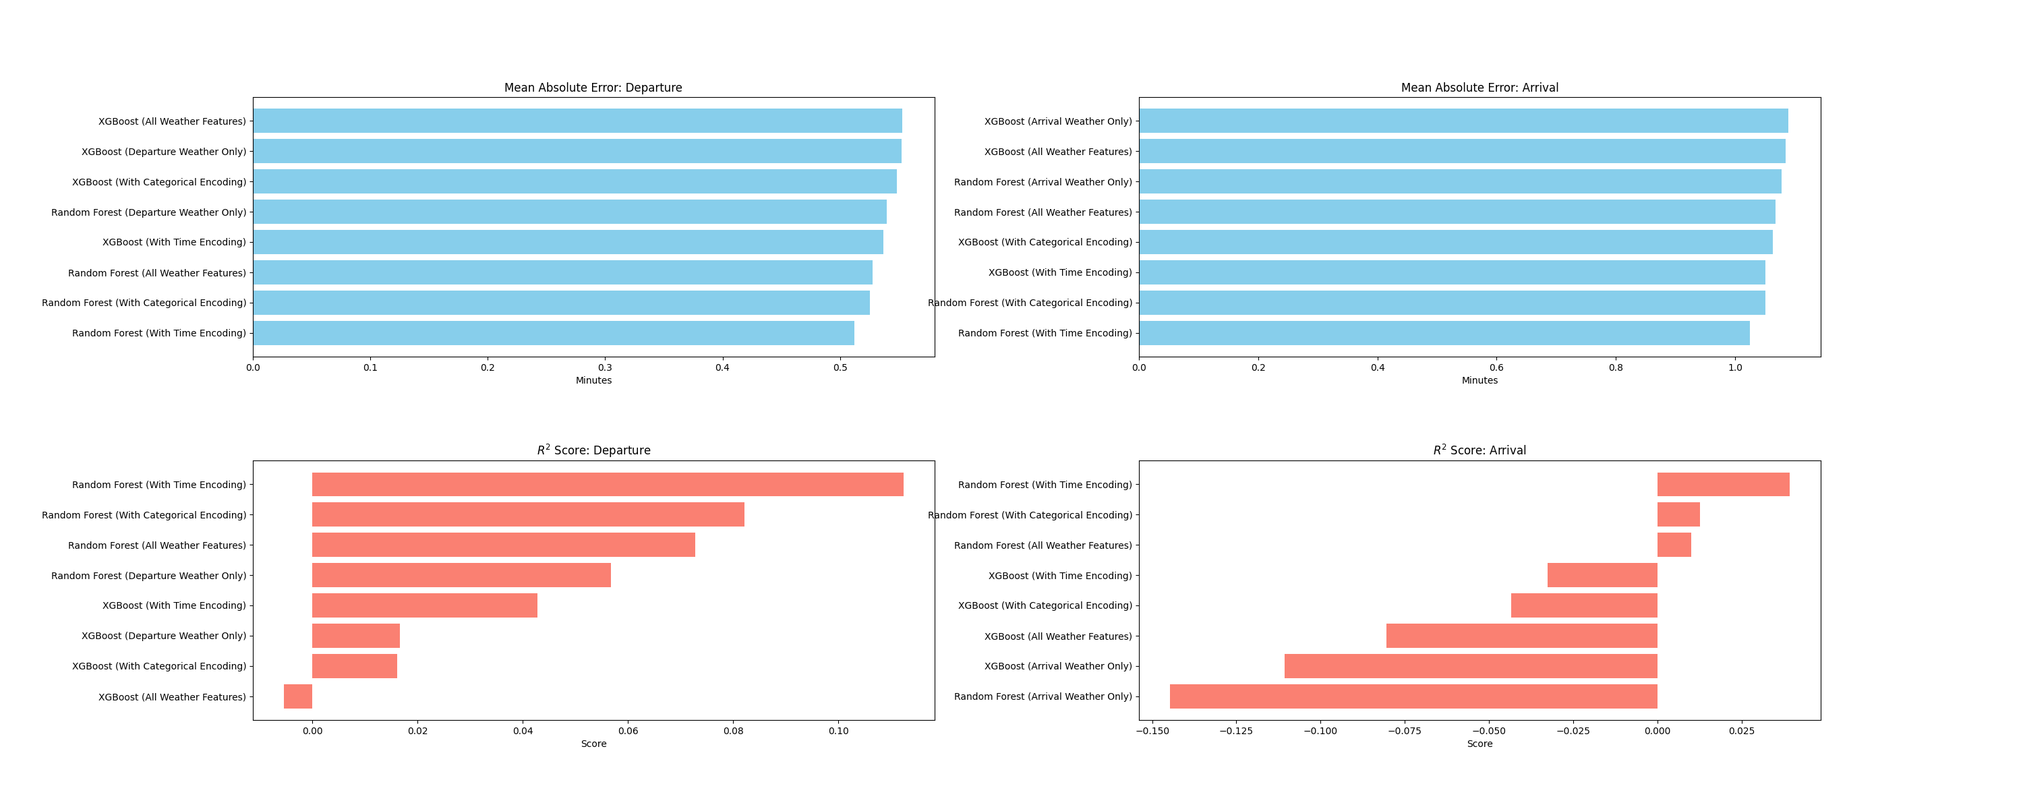
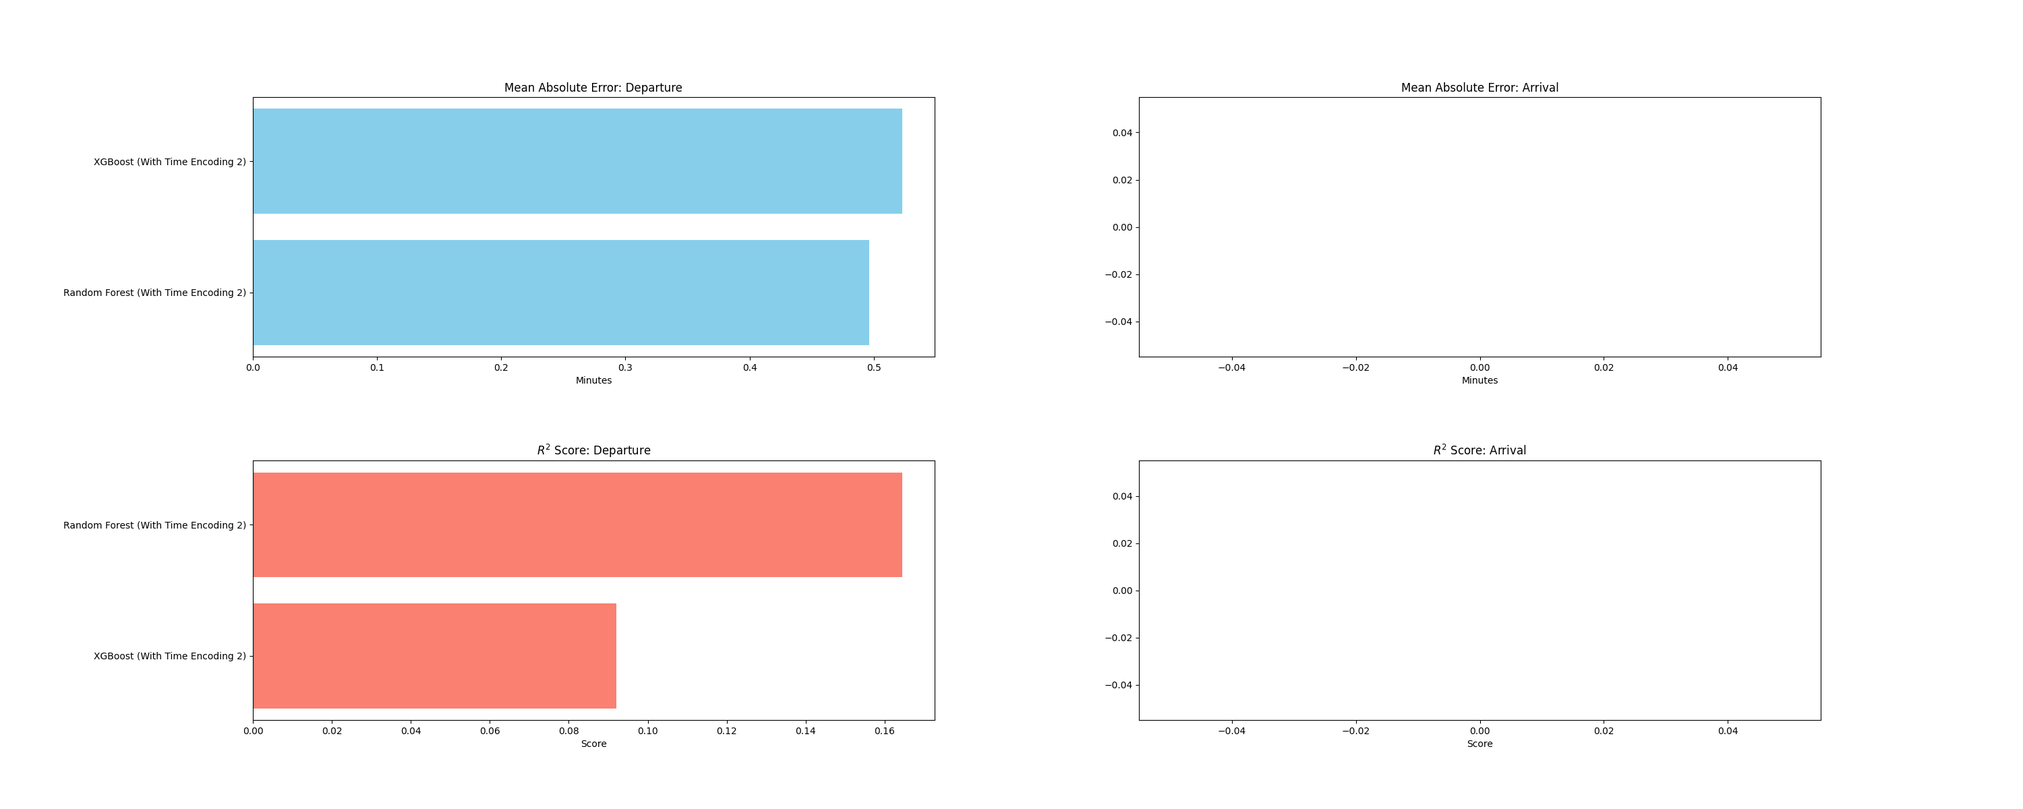
R squared 0.1644, departure delay

diff --git a/src/subset_origins.py b/src/subset_origins.py
@@ -18,8 +18,8 @@ load_dotenv()
 API_KEY = os.getenv("EDGE_API_KEY")
 
 # dates and destination
-START_DATE = "2025-01-06"
-END_DATE = "2026-01-01"
+START_DATE = "2025-12-08"
+END_DATE = "2026-01-02"
 DESTINATION = "CPH"
 
 # origins
@@ -36,13 +36,13 @@ ROWS_TO_KEEP = [
 
 RESULTS = []
 
-def call_edge(date_from: str, date_to: str = None):
+def call_edge(date_from: str, date_to: str = None, airport: str = "CPH", kind: str = "arrival"):
 
     url = "https://aviation-edge.com/v2/public/flightsHistory"
     params = {
         "key": API_KEY,
-        "code": "CPH",
-        "type": "arrival",
+        "code": airport,
+        "type": kind,
         "date_from": date_from,
         "date_to": date_to,
     }
@@ -64,7 +64,7 @@ def call_edge(date_from: str, date_to: str = None):
 
         print(f"An error occurred: {e}") 
 
-def get_all_flights():
+def get_all_flights(airport: str = "CPH", kind: str = "arrival"):
 
     start_dt = datetime.strptime(START_DATE, "%Y-%m-%d")
     end_dt = datetime.strptime(END_DATE, "%Y-%m-%d")
@@ -84,7 +84,7 @@ def get_all_flights():
         from_str = current_start.strftime("%Y-%m-%d")
         to_str = current_end.strftime("%Y-%m-%d")
         
-        chunk_data = call_edge(date_from=from_str, date_to=to_str)
+        chunk_data = call_edge(date_from=from_str, date_to=to_str, airport=airport, kind=kind)
         
         if chunk_data and isinstance(chunk_data, list):
             all_flight_records.extend(chunk_data)
@@ -96,7 +96,68 @@ def get_all_flights():
 
     pbar.close()
 
-    print(all_flight_records[:10])
+    if not all_flight_records:
+        print("No data was retrieved.")
+        return pd.DataFrame()
+
+    df = create_dataframe_flights(all_flight_records)
+    df = df.drop_duplicates(subset=['flight_iata', 'dep_time_sched'])
+
+    return df
+
+def create_dataframe_flights(flights_json: dict):
+
+    data = []
+    for f in flights_json:
+
+        dep = f.get('departure', {})
+        arr = f.get('arrival', {})
+        airline = f.get('airline', {})
+        flight = f.get('flight', {})
+
+        data.append({
+            'flight_iata': flight.get('iataNumber'),
+            'airline': airline.get('name'),
+            'dep_airport': dep.get('iataCode'),
+            'dep_time_sched': dep.get('scheduledTime'),
+            'dep_time_actual': dep.get('actualTime'),
+            'dep_delay': dep.get('delay') or 0,
+            'arr_airport': arr.get('iataCode'),
+            'arr_time_sched': arr.get('scheduledTime'),
+            'arr_time_actual': arr.get('actualTime'),
+            'arr_delay': arr.get('delay') or 0
+        })
+    
+    df = pd.DataFrame(data)
+
+    time_cols = [
+        'dep_time_sched', 'dep_time_actual', 
+        'arr_time_sched', 'arr_time_actual'
+    ]
+    
+    for col in time_cols:
+        df[col] = pd.to_datetime(df[col], errors='coerce')
+
+    return df
+
+def upload_hopsworks(flights_df: pd.DataFrame, airport: str = "CPH", kind: str = "arrival"):
+
+    project = hopsworks.login(
+        engine="python",
+        project=os.getenv("HOPSWORKS_PROJECT"),
+        api_key_value=os.getenv("HOPSWORKS_API_KEY"),
+    )
+    fs = project.get_feature_store()
+
+    flights_fg = fs.get_or_create_feature_group(
+        name=f"flights_{airport}_{kind}_fg",
+        version=1,
+        description="Flight data with weather features",
+        primary_key=["flight_iata", "dep_time_sched"],
+        online_enabled=True,
+    )
+
+    flights_fg.insert(flights_df, write_options={"wait_for_job": False})
 
 def get_flights_hopsworks():
 
@@ -161,20 +222,20 @@ def merge_flights_weather(flights_df, weather_df):
     departure_weather = weather_df[weather_df['airport_iata'].isin(ROWS_TO_KEEP)].copy()
     arrival_weather = weather_df[weather_df['airport_iata'] == 'cph'].copy()
 
-    flights_df.loc[:, 'dep_time_hour'] = flights_df['dep_time_sched'].dt.floor('H')
+    flights_df.loc[:, 'weather_timestamp_deo'] = flights_df['dep_time_sched'].dt.floor('H')
     flights_df.loc[:, 'arr_time_hour'] = flights_df['arr_time_sched'].dt.floor('H')
 
     departure_weather = departure_weather.rename(columns={'airport_iata': 'dep_airport'})
     arrival_weather = arrival_weather.rename(columns={'airport_iata': 'arr_airport'})
 
-    flights_df.loc[:, 'dep_time_hour'] = pd.to_datetime(flights_df['dep_time_hour'], utc=True)
+    flights_df.loc[:, 'weather_timestamp_deo'] = pd.to_datetime(flights_df['weather_timestamp_deo'], utc=True)
     departure_weather.loc[:, 'weather_timestamp'] = pd.to_datetime(departure_weather['weather_timestamp'], utc=True)
     arrival_weather.loc[:, 'weather_timestamp'] = pd.to_datetime(arrival_weather['weather_timestamp'], utc=True)
 
     merged_df = pd.merge(
         flights_df,
         departure_weather,
-        left_on=['dep_airport', 'dep_time_hour'],
+        left_on=['dep_airport', 'weather_timestamp_deo'],
         right_on=['dep_airport', 'weather_timestamp'],
         how='left'
     )
@@ -247,13 +308,13 @@ def train_and_eval_models(split_strategy: str = "random"):
 
     # merged_df = df_dep_only
 
-    extreme_mask = (
-        (merged_df['wind_gusts_10m_dep'] > 15) | 
-        (merged_df['precipitation_dep'] > 2.5) |
-        (merged_df['wind_speed_10m_dep'] > 10)
-        # (merged_df['wind_gusts_10m_arr'] > 15) | 
-        # (merged_df['precipitation_arr'] > 2.5)
-    )
+    # extreme_mask = (
+    #     (merged_df['wind_gusts_10m_dep'] > 15) | 
+    #     (merged_df['precipitation_dep'] > 2.5) |
+    #     (merged_df['wind_speed_10m_dep'] > 10)
+    #     # (merged_df['wind_gusts_10m_arr'] > 15) | 
+    #     # (merged_df['precipitation_arr'] > 2.5)
+    # )
 
     # df_extreme = merged_df[extreme_mask].copy()
 
@@ -302,48 +363,48 @@ def train_and_eval_models(split_strategy: str = "random"):
     ]
     all_cols = departure_cols + arrival_cols
 
-    # training models with departure weather or arrival weather features only
-    departure_X_train = X_train[departure_cols]
-    departure_X_test = X_test[departure_cols]
+    # # training models with departure weather or arrival weather features only
+    # departure_X_train = X_train[departure_cols]
+    # departure_X_test = X_test[departure_cols]
 
-    arrival_X_train = X_train[arrival_cols]
-    arrival_X_test = X_test[arrival_cols]
+    # arrival_X_train = X_train[arrival_cols]
+    # arrival_X_test = X_test[arrival_cols]
 
-    departure_rf_model = RandomForestRegressor(n_estimators=100, random_state=42)
-    departure_xgb_model = xgb.XGBRegressor(objective='reg:squarederror', n_estimators=100)
+    # departure_rf_model = RandomForestRegressor(n_estimators=100, random_state=42)
+    # departure_xgb_model = xgb.XGBRegressor(objective='reg:squarederror', n_estimators=100)
 
-    print("Training Random Forest Regressor for Departure Delays:")
-    train_regressor(departure_rf_model, departure_X_train, y_train['dep_delay'], departure_X_test, y_test['dep_delay'], name="Random Forest", target="Departure", feat_set="Departure Weather Only")
-    print("\nTraining XGBoost Regressor for Departure Delays:")
-    train_regressor(departure_xgb_model, departure_X_train, y_train['dep_delay'], departure_X_test, y_test['dep_delay'], name="XGBoost", target="Departure", feat_set="Departure Weather Only")
+    # print("Training Random Forest Regressor for Departure Delays:")
+    # train_regressor(departure_rf_model, departure_X_train, y_train['dep_delay'], departure_X_test, y_test['dep_delay'], name="Random Forest", target="Departure", feat_set="Departure Weather Only")
+    # print("\nTraining XGBoost Regressor for Departure Delays:")
+    # train_regressor(departure_xgb_model, departure_X_train, y_train['dep_delay'], departure_X_test, y_test['dep_delay'], name="XGBoost", target="Departure", feat_set="Departure Weather Only")
 
-    arrival_rf_model = RandomForestRegressor(n_estimators=100, random_state=42)
-    arrival_xgb_model = xgb.XGBRegressor(objective='reg:squarederror', n_estimators=100)
+    # arrival_rf_model = RandomForestRegressor(n_estimators=100, random_state=42)
+    # arrival_xgb_model = xgb.XGBRegressor(objective='reg:squarederror', n_estimators=100)
 
-    print("\nTraining Random Forest Regressor for Arrival Delays:")
-    train_regressor(arrival_rf_model, arrival_X_train, y_train['arr_delay'], arrival_X_test, y_test['arr_delay'], name="Random Forest", target="Arrival", feat_set="Arrival Weather Only")
-    print("\nTraining XGBoost Regressor for Arrival Delays:")
-    train_regressor(arrival_xgb_model, arrival_X_train, y_train['arr_delay'], arrival_X_test, y_test['arr_delay'], name="XGBoost", target="Arrival", feat_set="Arrival Weather Only")
+    # print("\nTraining Random Forest Regressor for Arrival Delays:")
+    # train_regressor(arrival_rf_model, arrival_X_train, y_train['arr_delay'], arrival_X_test, y_test['arr_delay'], name="Random Forest", target="Arrival", feat_set="Arrival Weather Only")
+    # print("\nTraining XGBoost Regressor for Arrival Delays:")
+    # train_regressor(arrival_xgb_model, arrival_X_train, y_train['arr_delay'], arrival_X_test, y_test['arr_delay'], name="XGBoost", target="Arrival", feat_set="Arrival Weather Only")
 
-    # training models with all weather features
-    all_X_train = X_train[all_cols]
-    all_X_test = X_test[all_cols]
+    # # training models with all weather features
+    # all_X_train = X_train[all_cols]
+    # all_X_test = X_test[all_cols]
 
-    all_dep_rf_model = RandomForestRegressor(n_estimators=100, random_state=42)
-    all_dep_xgb_model = xgb.XGBRegressor(objective='reg:squarederror', n_estimators=100)
+    # all_dep_rf_model = RandomForestRegressor(n_estimators=100, random_state=42)
+    # all_dep_xgb_model = xgb.XGBRegressor(objective='reg:squarederror', n_estimators=100)
 
-    print("\nTraining Random Forest Regressor for Departure Delays (All Features):")
-    train_regressor(all_dep_rf_model, all_X_train, y_train['dep_delay'], all_X_test, y_test['dep_delay'], name="Random Forest", target="Departure", feat_set="All Weather Features")
-    print("\nTraining XGBoost Regressor for Departure Delays (All Features):")
-    train_regressor(all_dep_xgb_model, all_X_train, y_train['dep_delay'], all_X_test, y_test['dep_delay'], name="XGBoost", target="Departure", feat_set="All Weather Features")
+    # print("\nTraining Random Forest Regressor for Departure Delays (All Features):")
+    # train_regressor(all_dep_rf_model, all_X_train, y_train['dep_delay'], all_X_test, y_test['dep_delay'], name="Random Forest", target="Departure", feat_set="All Weather Features")
+    # print("\nTraining XGBoost Regressor for Departure Delays (All Features):")
+    # train_regressor(all_dep_xgb_model, all_X_train, y_train['dep_delay'], all_X_test, y_test['dep_delay'], name="XGBoost", target="Departure", feat_set="All Weather Features")
 
-    all_arr_rf_model = RandomForestRegressor(n_estimators=100, random_state=42)
-    all_arr_xgb_model = xgb.XGBRegressor(objective='reg:squarederror', n_estimators=100)
+    # all_arr_rf_model = RandomForestRegressor(n_estimators=100, random_state=42)
+    # all_arr_xgb_model = xgb.XGBRegressor(objective='reg:squarederror', n_estimators=100)
 
-    print("\nTraining Random Forest Regressor for Arrival Delays (All Features):")
-    train_regressor(all_arr_rf_model, all_X_train, y_train['arr_delay'], all_X_test, y_test['arr_delay'], name="Random Forest", target="Arrival", feat_set="All Weather Features")
-    print("\nTraining XGBoost Regressor for Arrival Delays (All Features):")
-    train_regressor(all_arr_xgb_model, all_X_train, y_train['arr_delay'], all_X_test, y_test['arr_delay'], name="XGBoost", target="Arrival", feat_set="All Weather Features")
+    # print("\nTraining Random Forest Regressor for Arrival Delays (All Features):")
+    # train_regressor(all_arr_rf_model, all_X_train, y_train['arr_delay'], all_X_test, y_test['arr_delay'], name="Random Forest", target="Arrival", feat_set="All Weather Features")
+    # print("\nTraining XGBoost Regressor for Arrival Delays (All Features):")
+    # train_regressor(all_arr_xgb_model, all_X_train, y_train['arr_delay'], all_X_test, y_test['arr_delay'], name="XGBoost", target="Arrival", feat_set="All Weather Features")
 
     # train models with categorical encoding for airports
     with_categorical_encoding = ['dep_airport_lhr', 'dep_airport_fra', 'dep_airport_ams'] + all_cols
@@ -351,52 +412,73 @@ def train_and_eval_models(split_strategy: str = "random"):
     X_train_enc = pd.get_dummies(X_train, columns=['dep_airport'])[with_categorical_encoding]
     X_test_enc = pd.get_dummies(X_test, columns=['dep_airport'])[with_categorical_encoding]
 
-    enc_dep_rf_model = RandomForestRegressor(n_estimators=100, random_state=42)
-    enc_dep_xgb_model = xgb.XGBRegressor(objective='reg:squarederror', n_estimators=100)
+    # enc_dep_rf_model = RandomForestRegressor(n_estimators=100, random_state=42)
+    # enc_dep_xgb_model = xgb.XGBRegressor(objective='reg:squarederror', n_estimators=100)
 
-    print("\nTraining Random Forest Regressor for Departure Delays (With Categorical Encoding):")
-    train_regressor(enc_dep_rf_model, X_train_enc, y_train['dep_delay'], X_test_enc, y_test['dep_delay'], name="Random Forest", target="Departure", feat_set="With Categorical Encoding")
-    print("\nTraining XGBoost Regressor for Departure Delays (With Categorical Encoding):")
-    train_regressor(enc_dep_xgb_model, X_train_enc, y_train['dep_delay'], X_test_enc, y_test['dep_delay'], name="XGBoost", target="Departure", feat_set="With Categorical Encoding")
+    # print("\nTraining Random Forest Regressor for Departure Delays (With Categorical Encoding):")
+    # train_regressor(enc_dep_rf_model, X_train_enc, y_train['dep_delay'], X_test_enc, y_test['dep_delay'], name="Random Forest", target="Departure", feat_set="With Categorical Encoding")
+    # print("\nTraining XGBoost Regressor for Departure Delays (With Categorical Encoding):")
+    # train_regressor(enc_dep_xgb_model, X_train_enc, y_train['dep_delay'], X_test_enc, y_test['dep_delay'], name="XGBoost", target="Departure", feat_set="With Categorical Encoding")
 
-    enc_arr_rf_model = RandomForestRegressor(n_estimators=100, random_state=42)
-    enc_arr_xgb_model = xgb.XGBRegressor(objective='reg:squarederror', n_estimators=100)
+    # enc_arr_rf_model = RandomForestRegressor(n_estimators=100, random_state=42)
+    # enc_arr_xgb_model = xgb.XGBRegressor(objective='reg:squarederror', n_estimators=100)
 
-    print("\nTraining Random Forest Regressor for Arrival Delays (With Categorical Encoding):")
-    train_regressor(enc_arr_rf_model, X_train_enc, y_train['arr_delay'], X_test_enc, y_test['arr_delay'], name="Random Forest", target="Arrival", feat_set="With Categorical Encoding")
-    print("\nTraining XGBoost Regressor for Arrival Delays (With Categorical Encoding):")
-    train_regressor(enc_arr_xgb_model, X_train_enc, y_train['arr_delay'], X_test_enc, y_test['arr_delay'], name="XGBoost", target="Arrival", feat_set="With Categorical Encoding")
+    # print("\nTraining Random Forest Regressor for Arrival Delays (With Categorical Encoding):")
+    # train_regressor(enc_arr_rf_model, X_train_enc, y_train['arr_delay'], X_test_enc, y_test['arr_delay'], name="Random Forest", target="Arrival", feat_set="With Categorical Encoding")
+    # print("\nTraining XGBoost Regressor for Arrival Delays (With Categorical Encoding):")
+    # train_regressor(enc_arr_xgb_model, X_train_enc, y_train['arr_delay'], X_test_enc, y_test['arr_delay'], name="XGBoost", target="Arrival", feat_set="With Categorical Encoding")
 
-    # train models with categorical encoding for time features
-    X_train['dep_operational_bin'] = X_train['weather_timestamp_dep'].dt.hour.apply(get_operational_bin)
-    X_test['dep_operational_bin'] = X_test['weather_timestamp_dep'].dt.hour.apply(get_operational_bin)
-    X_train['arr_operational_bin'] = X_train['weather_timestamp_arr'].dt.hour.apply(get_operational_bin)
-    X_test['arr_operational_bin'] = X_test['weather_timestamp_arr'].dt.hour.apply(get_operational_bin)
+    # # train models with categorical encoding for time features
+    # X_train['dep_operational_bin'] = X_train['weather_timestamp_dep'].dt.hour.apply(get_operational_bin)
+    # X_test['dep_operational_bin'] = X_test['weather_timestamp_dep'].dt.hour.apply(get_operational_bin)
+    # X_train['arr_operational_bin'] = X_train['weather_timestamp_arr'].dt.hour.apply(get_operational_bin)
+    # X_test['arr_operational_bin'] = X_test['weather_timestamp_arr'].dt.hour.apply(get_operational_bin)
 
-    with_time_encoding = (
-        ['dep_operational_bin' + f'_{time}' for time in ['morning', 'midday', 'evening', 'night']]
-        + ['arr_operational_bin' + f'_{time}' for time in ['morning', 'midday', 'evening', 'night']]
-        + all_cols
-    )
+    # with_time_encoding = (
+    #     ['dep_operational_bin' + f'_{time}' for time in ['morning', 'midday', 'evening', 'night']]
+    #     + ['arr_operational_bin' + f'_{time}' for time in ['morning', 'midday', 'evening', 'night']]
+    #     + all_cols
+    # )
 
-    X_train_time_enc = pd.get_dummies(X_train, columns=['arr_operational_bin', 'dep_operational_bin'])[with_time_encoding]
-    X_test_time_enc = pd.get_dummies(X_test, columns=['arr_operational_bin', 'dep_operational_bin'])[with_time_encoding]
+    # X_train_time_enc = pd.get_dummies(X_train, columns=['arr_operational_bin', 'dep_operational_bin'])[with_time_encoding]
+    # X_test_time_enc = pd.get_dummies(X_test, columns=['arr_operational_bin', 'dep_operational_bin'])[with_time_encoding]
 
-    time_enc_dep_rf_model = RandomForestRegressor(n_estimators=100, random_state=42)
-    time_enc_dep_xgb_model = xgb.XGBRegressor(objective='reg:squarederror', n_estimators=100)
+    # time_enc_dep_rf_model = RandomForestRegressor(n_estimators=100, random_state=42)
+    # time_enc_dep_xgb_model = xgb.XGBRegressor(objective='reg:squarederror', n_estimators=100)
 
-    print("\nTraining Random Forest Regressor for Departure Delays (With Time Encoding):")
-    train_regressor(time_enc_dep_rf_model, X_train_time_enc, y_train['dep_delay'], X_test_time_enc, y_test['dep_delay'], name="Random Forest", target="Departure", feat_set="With Time Encoding")
-    print("\nTraining XGBoost Regressor for Departure Delays (With Time Encoding):")
-    train_regressor(time_enc_dep_xgb_model, X_train_time_enc, y_train['dep_delay'], X_test_time_enc, y_test['dep_delay'], name="XGBoost", target="Departure", feat_set="With Time Encoding")
+    # print("\nTraining Random Forest Regressor for Departure Delays (With Time Encoding):")
+    # train_regressor(time_enc_dep_rf_model, X_train_time_enc, y_train['dep_delay'], X_test_time_enc, y_test['dep_delay'], name="Random Forest", target="Departure", feat_set="With Time Encoding")
+    # print("\nTraining XGBoost Regressor for Departure Delays (With Time Encoding):")
+    # train_regressor(time_enc_dep_xgb_model, X_train_time_enc, y_train['dep_delay'], X_test_time_enc, y_test['dep_delay'], name="XGBoost", target="Departure", feat_set="With Time Encoding")
 
-    time_enc_arr_rf_model = RandomForestRegressor(n_estimators=100, random_state=42)
-    time_enc_arr_xgb_model = xgb.XGBRegressor(objective='reg:squarederror', n_estimators=100)
+    # time_enc_arr_rf_model = RandomForestRegressor(n_estimators=100, random_state=42)
+    # time_enc_arr_xgb_model = xgb.XGBRegressor(objective='reg:squarederror', n_estimators=100)
 
-    print("\nTraining Random Forest Regressor for Arrival Delays (With Time Encoding):")
-    train_regressor(time_enc_arr_rf_model, X_train_time_enc, y_train['arr_delay'], X_test_time_enc, y_test['arr_delay'], name="Random Forest", target="Arrival", feat_set="With Time Encoding")
-    print("\nTraining XGBoost Regressor for Arrival Delays (With Time Encoding):")
-    train_regressor(time_enc_arr_xgb_model, X_train_time_enc, y_train['arr_delay'], X_test_time_enc, y_test['arr_delay'], name="XGBoost", target="Arrival", feat_set="With Time Encoding")
+    # print("\nTraining Random Forest Regressor for Arrival Delays (With Time Encoding):")
+    # train_regressor(time_enc_arr_rf_model, X_train_time_enc, y_train['arr_delay'], X_test_time_enc, y_test['arr_delay'], name="Random Forest", target="Arrival", feat_set="With Time Encoding")
+    # print("\nTraining XGBoost Regressor for Arrival Delays (With Time Encoding):")
+    # train_regressor(time_enc_arr_xgb_model, X_train_time_enc, y_train['arr_delay'], X_test_time_enc, y_test['arr_delay'], name="XGBoost", target="Arrival", feat_set="With Time Encoding")
+
+    # time encoding using sine and cosine transformations
+    X_train_enc['dep_hour_sin'] = np.sin(2 * np.pi * X_train['weather_timestamp_deo'].dt.hour / 24)
+    X_train_enc['dep_hour_cos'] = np.cos(2 * np.pi * X_train['weather_timestamp_deo'].dt.hour / 24)
+    X_train_enc['arr_hour_sin'] = np.sin(2 * np.pi * X_train['weather_timestamp_arr'].dt.hour / 24)
+    X_train_enc['arr_hour_cos'] = np.cos(2 * np.pi * X_train['weather_timestamp_arr'].dt.hour / 24)
+    X_test_enc['dep_hour_sin'] = np.sin(2 * np.pi * X_test['weather_timestamp_deo'].dt.hour / 24)
+    X_test_enc['dep_hour_cos'] = np.cos(2 * np.pi * X_test['weather_timestamp_deo'].dt.hour / 24)
+    X_test_enc['arr_hour_sin'] = np.sin(2 * np.pi * X_test['weather_timestamp_arr'].dt.hour / 24)
+    X_test_enc['arr_hour_cos'] = np.cos(2 * np.pi * X_test['weather_timestamp_arr'].dt.hour / 24)
+
+    X_train_time_enc2 = X_train_enc # [all_cols + ['dep_hour_sin', 'dep_hour_cos', 'arr_hour_sin', 'arr_hour_cos']]
+    X_test_time_enc2 = X_test_enc # [all_cols + ['dep_hour_sin', 'dep_hour_cos', 'arr_hour_sin', 'arr_hour_cos']]
+
+    time_enc2_dep_rf_model = RandomForestRegressor(n_estimators=200, random_state=42)
+    time_enc2_dep_xgb_model = xgb.XGBRegressor(objective='reg:squarederror', n_estimators=100)  
+
+    print("\nTraining Random Forest Regressor for Departure Delays (With Time Encoding 2):")
+    train_regressor(time_enc2_dep_rf_model, X_train_time_enc2, y_train['dep_delay'], X_test_time_enc2, y_test['dep_delay'], name="Random Forest", target="Departure", feat_set="With Time Encoding 2")
+    print("\nTraining XGBoost Regressor for Departure Delays (With Time Encoding 2):")
+    train_regressor(time_enc2_dep_xgb_model, X_train_time_enc2, y_train['dep_delay'], X_test_time_enc2, y_test['dep_delay'], name="XGBoost", target="Departure", feat_set="With Time Encoding 2")
 
 def plot_tournament_results():
 
@@ -434,9 +516,45 @@ def plot_tournament_results():
         plt.tight_layout()
         plt.savefig('top_feature_importance.png')
 
+def plot_delay_progression(df, airport_code="FRA"):
+
+    subset = df[df['dep_airport'].str.upper() == airport_code.upper()].copy()
+    
+    if subset.empty:
+        print(f"No data found for {airport_code}")
+        return
+
+    subset['hour'] = subset['dep_time_sched'].dt.hour
+    
+    hourly_stats = subset.groupby('hour')['dep_delay'].agg(['mean', 'median', 'std']).reset_index()
+
+    plt.figure(figsize=(12, 6))
+    plt.plot(hourly_stats['hour'], hourly_stats['mean'], marker='o', linestyle='-', 
+             linewidth=2, label='Mean Delay', color='#1f77b4')
+    plt.fill_between(hourly_stats['hour'], 
+                     hourly_stats['mean'] - (hourly_stats['std'] * 0.2),
+                     hourly_stats['mean'] + (hourly_stats['std'] * 0.2), 
+                     alpha=0.2, color='#1f77b4', label='Delay Volatility')
+
+    plt.title(f'Delay Progression Throughout the Day at {airport_code}', fontsize=14)
+    plt.xlabel('Hour of Day (24h format)', fontsize=12)
+    plt.ylabel('Average Departure Delay (Minutes)', fontsize=12)
+    plt.xticks(range(0, 24))
+    plt.grid(True, linestyle='--', alpha=0.7)
+    plt.legend()
+    
+    plt.savefig(f'{airport_code}_daily_progression.png')
+    plt.show()
+
 if __name__ == '__main__':
 
     flights_df = get_flights_hopsworks()
     get_weather(flights_df)
     train_and_eval_models(split_strategy="random")
     plot_tournament_results()
+
+    # fra_df = get_all_flights(airport="FRA", kind="departure")
+    
+    # if not fra_df.empty:
+    #     # Plot the progression
+    #     plot_delay_progression(fra_df, airport_code="FRA")
